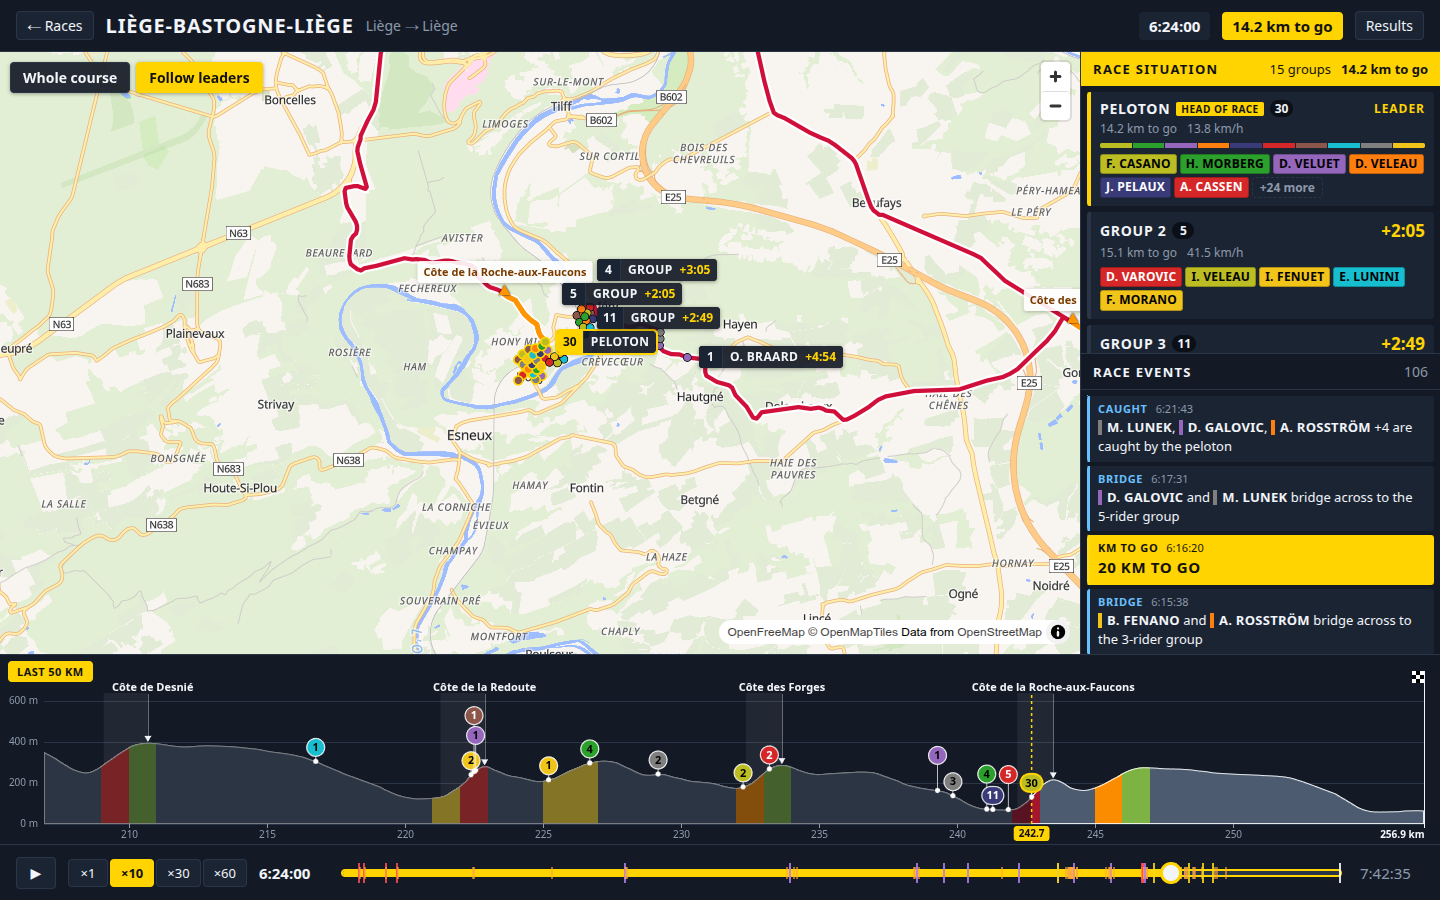
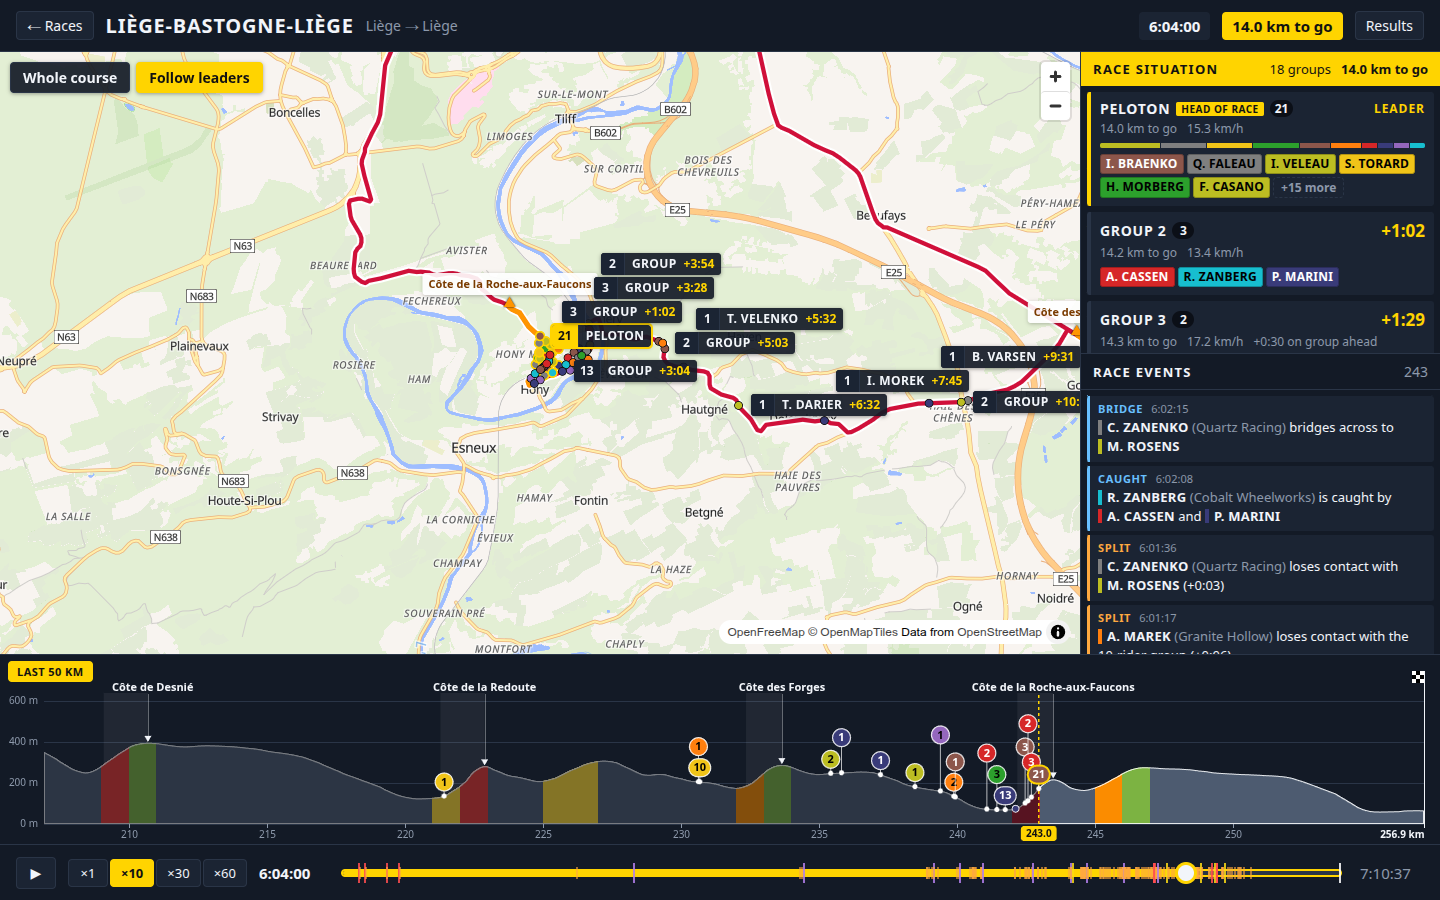
docs: screenshots of the calibrated seed-42 races
Claude-Session: https://claude.ai/code/session_01Ftx17smzoenvpwxCkArwxT

diff --git a/frontend/README.md b/frontend/README.md
@@ -24,6 +24,7 @@ npm run dev          # http://localhost:5173, /api is proxied to http://localhos
 | `npm run build` | typecheck + production build into `dist/` |
 | `npm run typecheck` | `tsc` (no emit) |
 | `npm test` | Vitest unit tests (`src/**/*.test.ts`) |
+| `npm run screenshots` | regenerates `docs/screenshots/` (see **Screenshots**) |
 
 Playback keys: space = play/pause (also with a button focused); on the focused timeline ←/→ = ∓1 min (shift: 10 min), Home/End.
 
@@ -34,16 +35,19 @@ from the line, groups behind the window are counted at its left edge.
 
 ## Screenshots
 
-Seed 42 replays from the runner, 1440×900, served by the kernel (`--serve`) through the Vite proxy.
+Seed 42 replays from the runner, 1440×900, served by the kernel (`--serve`) through the Vite proxy. To regenerate
+them, start the runner with `--serve` and `npm run dev` as in **Run**, then `npm run screenshots`
+(`scripts/screenshots.mjs`: headless Chrome through `playwright-core`, `CHROME=/path/to/chrome` if it is not
+`/usr/bin/google-chrome`; it reads `replays/*-42.json.gz` to find the moments and writes `docs/screenshots/`).
 
 | | |
 |---|---|
 | ![Milano-Sanremo, breakaway](../docs/screenshots/milano-sanremo-breakaway.png) | ![Milano-Sanremo, Poggio](../docs/screenshots/milano-sanremo-last-climb.png) |
-| Milano-Sanremo, breakaway established (camera following the leaders, peloton at +3:09) | Milano-Sanremo, Poggio (profile zoomed on the last 50 km) |
+| Milano-Sanremo, breakaway established (camera following the leaders, peloton at +3:21) | Milano-Sanremo, Poggio (profile zoomed on the last 50 km) |
 | ![Liège-Bastogne-Liège, Roche-aux-Faucons](../docs/screenshots/liege-bastogne-liege-last-climb.png) | ![Il Lombardia, finish](../docs/screenshots/il-lombardia-finish.png) |
-| Liège-Bastogne-Liège, Roche-aux-Faucons, 15 groups | Il Lombardia, just after the winner crossed the line |
+| Liège-Bastogne-Liège, Roche-aux-Faucons, 18 groups | Il Lombardia, just after the winner crossed the line |
 | ![Il Lombardia, results](../docs/screenshots/il-lombardia-results.png) | ![Local file](../docs/screenshots/local-file-liege-bastogne-liege.png) |
-| Il Lombardia, final classification | `replays/liege-bastogne-liege-42.json.gz` opened as a local file |
+| Il Lombardia, final classification (an all-rounder wins a 5-rider sprint) | `replays/liege-bastogne-liege-42.json.gz` opened as a local file |
 
 Race list: [`race-list.png`](../docs/screenshots/race-list.png).
 
